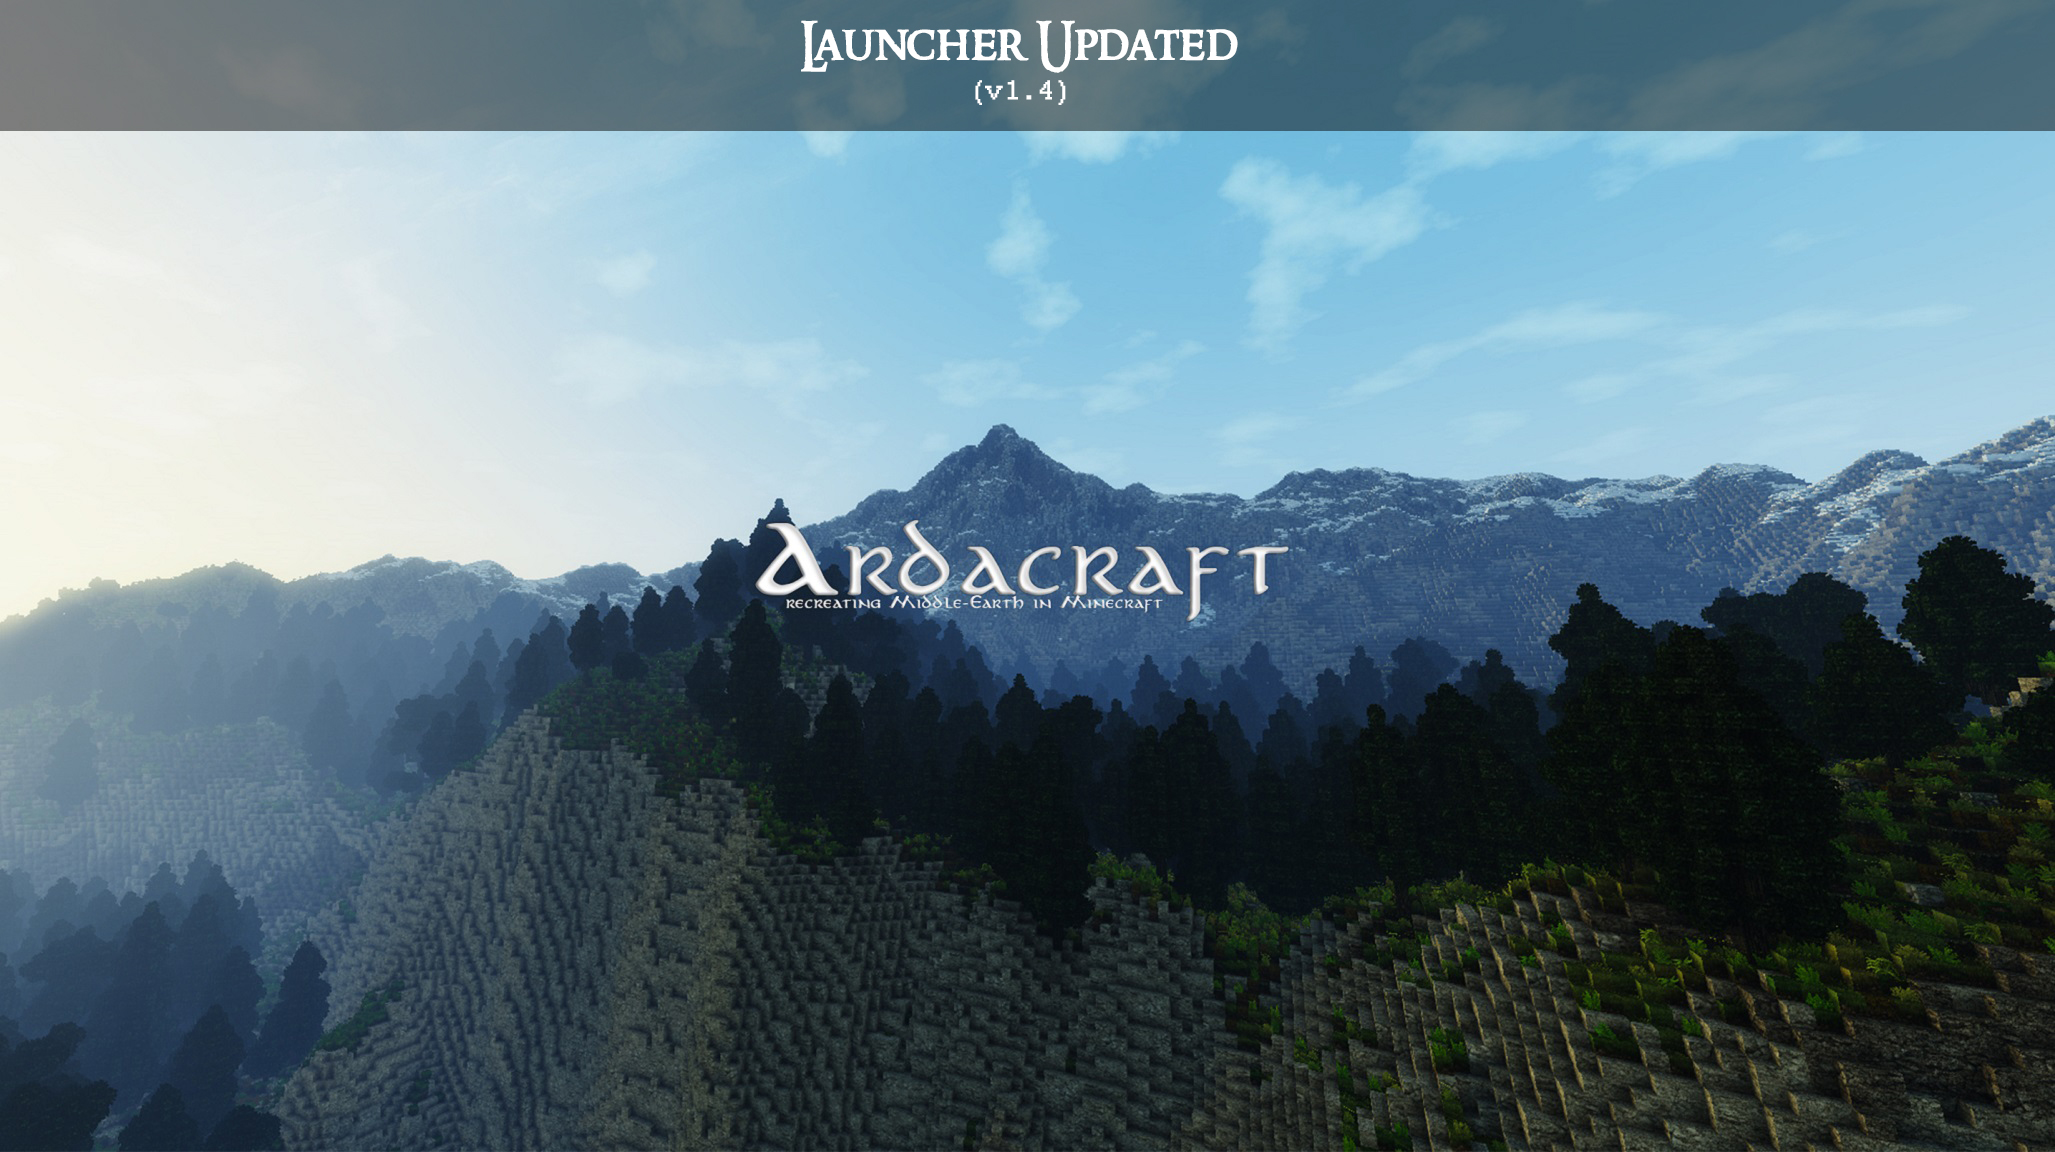
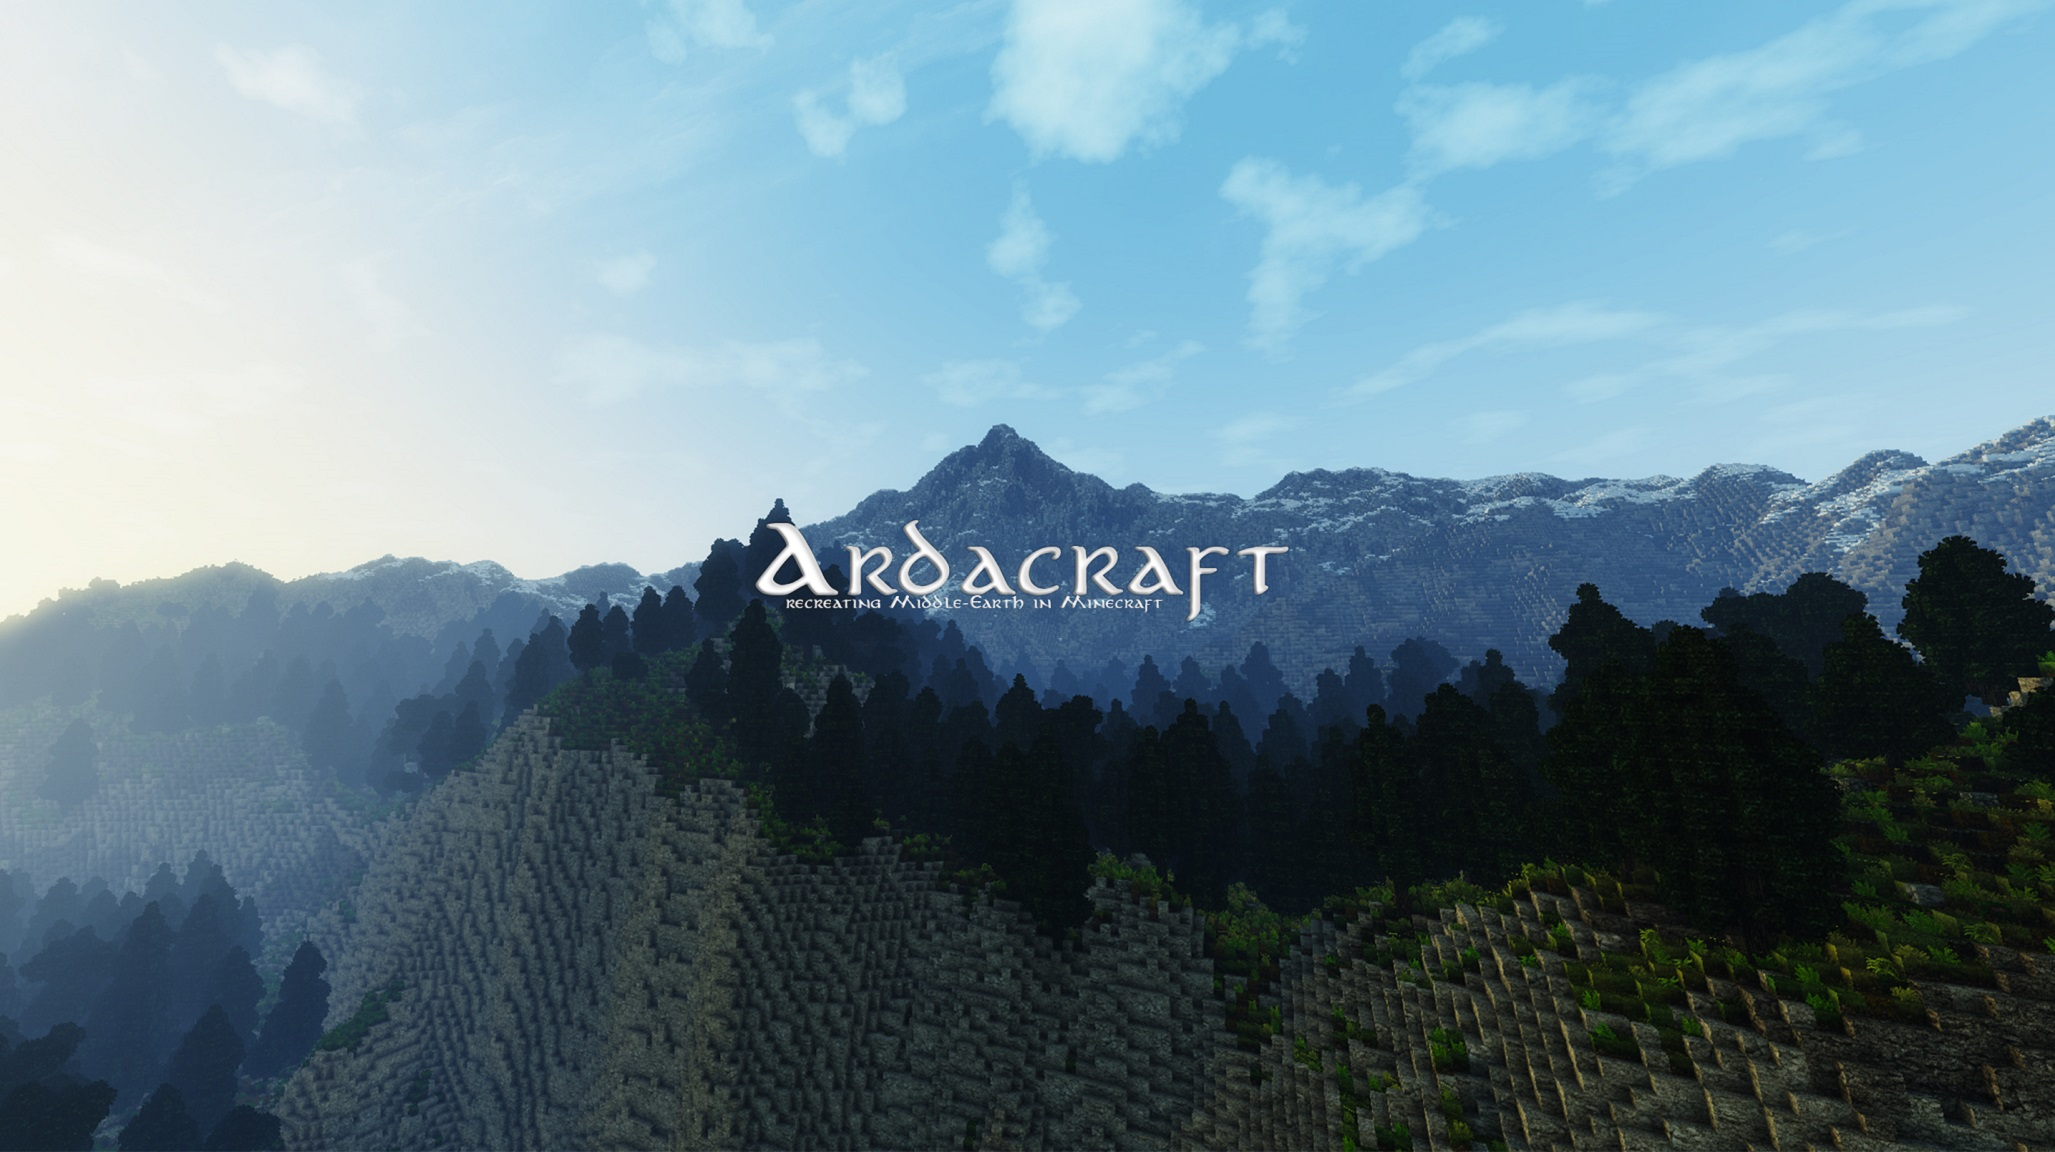
Update news.html

Changed region(s): [[0.0, 0.0, 1.0, 0.125]]

diff --git a/Ardacraft/Launcher/news.html b/Ardacraft/Launcher/news.html
@@ -1,16 +1,13 @@
 <!DOCTYPE html>
 <html>
   <head>
-    <meta http-equiv="Content-Type" content="text/html; charset=UTF-8">
     <style>
     body {
-      background-image: url('./ac_bg.jpg');
       background-color: #262626;
-      background-size: cover;
-      background-repeat: none;
     }
     </style>
   </head>
-  <body>
+  <body style='text-align:center;'>
+    <img src='ac_bg.jpg' style='width:90%;'>
   </body>
 </html>
